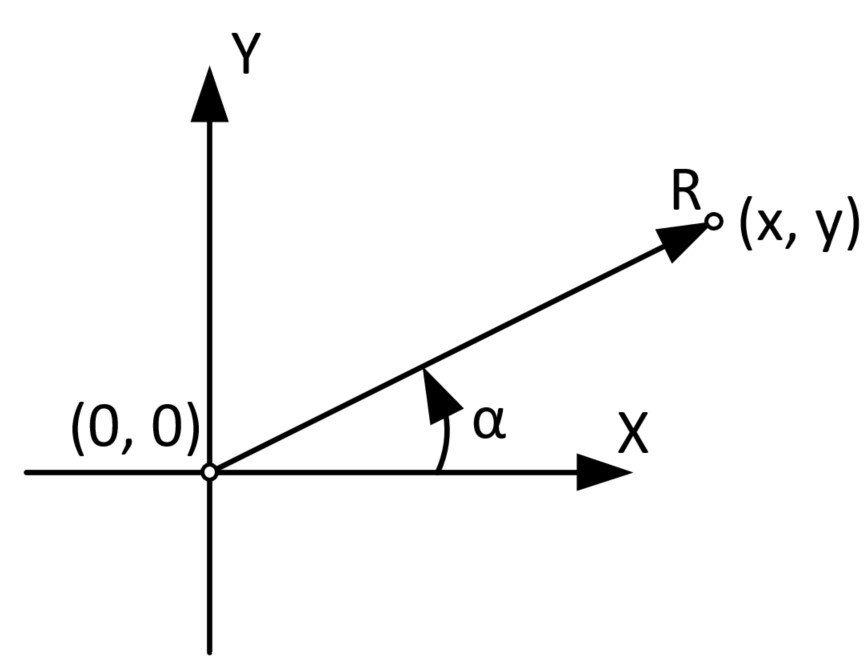
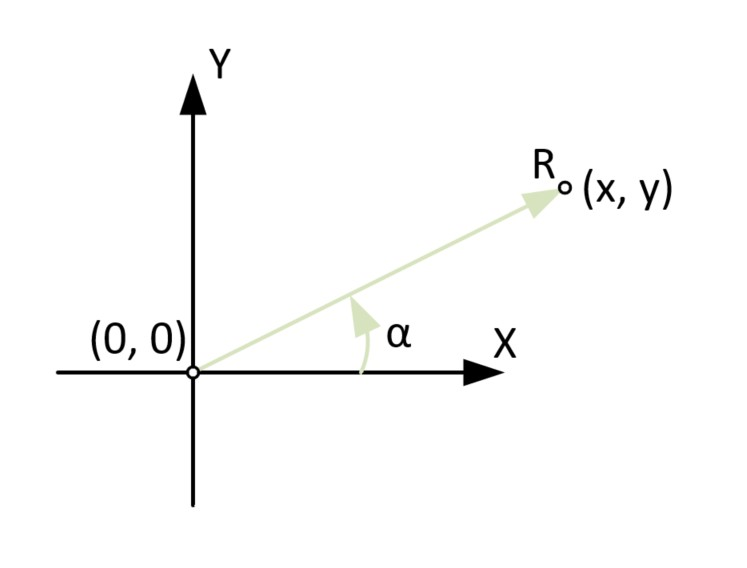
Added more documentation

Changed region(s): [[0.0308, 0.0299, 0.7697, 0.9877], [0.6158, 0.2394, 1.0, 0.4489], [0.5234, 0.419, 0.6466, 0.5088]]

diff --git a/README.md b/README.md
@@ -1,6 +1,32 @@
 # FlexJoystick
 **FlexJoystick** is a plain JavaScript ES6 class that is used to add interactable joysticks to the websites.
 
+<details "><summary><b>What FlexJoystick is capable of</b></summary>
+<div style="background:#F8F8F8;margin-top:5px;margin-left:1em;">
+
+* 3 types of joysticks:
+  1. Classic round Joysticks;
+  2. Wide joysticks;
+  3. Long joysticks;
+* the type of joystick is determined automatically based on the parent container dimensions;
+* multiple joysticks of different types can be used on the same page without interference;
+* the type of the joystick is automatically determined by the size of the holding container;
+* both touch and mouse events are supported;
+* event listeners are specified by user which allows for a flexible control;
+* joysticks size can be changed without page reload;
+* joysticks design can be updated using JavaScript;
+* by default stick returns to zero when not touched, but there is a flag to keep position;
+* 4 different joystick coordinates are available to read at any given time:
+  * X coordinate of the center of the stick;
+  * Y coordinate of the center of the stick;
+  * radius of trigger event position (mouse click or touch) from the center of the joystick;
+  * radius angle;
+* current stick direction can be read in a couple of different direction modes;
+* programmable activation threshold prevents false direction signals on touch events; 
+* there is a "return to center" animation for a stick that can be enabled by 3 lines of code.
+</div>
+</details><p></p>
+
 The class supports 3 types of joysticks:
 1. Classic round Joysticks;
 2. Wide joysticks;
@@ -27,7 +53,7 @@ This will draw the joystick on the screen. **Joystick will inherit dimensions of
 
 
 <details "><summary><b>How joystick type is determined</b></summary>
-<div style="background:#F8F8F8;margin-top:5px;">
+<div style="background:#F8F8F8;margin-top:5px;margin-left:1em;">
 
 If div's **height is bigger than width more than 1.4** times you will have a **"long"** joystick, if **opposite is true** you will have a **"wide"** one. **In all other cases** you will have a **"round"** joystick. **"Round"** Joystick will have the diameter equal to the smallest of parent dimensions and will be centered vertically and horizontally in the parent object.
 </div>
@@ -38,8 +64,9 @@ If div's **height is bigger than width more than 1.4** times you will have a **"
 At this point joystick is a static object. To make it work as intended you will need to add event handlers.
 
 <details "><summary><b>How joystick event handlers work</b></summary>
-<div style="background:#F8F8F8;margin-top:5px;">
-Joystick Class provides 6 event handle methods:
+<div style="background:#F8F8F8;margin-top:5px;margin-left:1em;">
+
+**Joystick Class** provides 6 event handle methods:
 
 - handleMouseDown(event);
 - handleMouseMove(event);
@@ -48,9 +75,9 @@ Joystick Class provides 6 event handle methods:
 - handleTouchMove(event);
 - handleTouchEnd(event, returnToCenter).
 
-If joystick should handle mouse clicks you should enable first 3 handlers, if you need to work with touches - last 3. You can enable all 6 events at the same time if needed.
+If joystick need to handle mouse clicks you should enable first 3 handlers, if you need to work with touches - last 3. You can enable all 6 events at the same time if needed.
 
- To enable handler you should call **addEventListener** function for a particular event type and call corresponding method inside.
+To enable handler you should call **addEventListener** function for a particular event type and call corresponding method inside. After that joystick should start working as intended.
 
 </div>
 </details><p></p>
@@ -71,46 +98,85 @@ document.addEventListener("mouseup", function(event){
 },false);
 ```
 
-It is important to note that "mousedown" handler is registered only for tha parent object - when we click on the joystick. To other handlers are registered for the whole document, so that we can control the stick even when we are out of boundaries of the parent object.
+It is **important to note that "mousedown" handler is registered only for tha parent object** - when we click on the joystick. To other handlers are registered for the whole document, so that we can control the stick even when we are out of boundaries of the parent object. If needed handlers can be registered for a different objects.
 
-At this point you have a fully functional basic joystick that works with mouse. But Joystick  still does not give you any type of data to work with.
+At this point you have a fully functional basic joystick that works with mouse. But it still doesn't give you any type of data to work with.
 
 ### Read the coordinates from the Joystick
 
+Joystick coordinate system starts from the center of the parent object and has 4 different coordinates:
+1. **X coordinate** of the center of the stick **in pixels**;
+2. **Y coordinate** of the center of the stick **in pixels**;
+3. **radius to the event source position** (mouse click or touch) from the center of coordinate system. It has **normalized value** - equal to 0 when stick is in the center, 1.0 when stick touches the border and higher than 1 when event source is outside of the parent object;
+4. **radius angle** from **0 to 360 degrees**.
 
-
-
-* multiple joysticks of different types can be used on the same page without interference;
-* the type of the joystick is automatically determined by the size of the holding container;
-* both touch and mouse events are supported;
-* event listeners are specified by user which allows for a flexible control;
-* joysticks size can be changed without page reload;
-* joysticks design can be updated using JavaScript;
-* by default stick returns to zero when not touched, but there is a flag to keep position;
-* 5 different joystick coordinates are available to read at any given time:
-  * local X coordinate;
-  * local Y coordinate;
-  * radius of trigger event (mouse click or touch) from the center of the joystick;
-  * angle of the 
-* there is a return to center animation for a stick that can be enabled by 3 lines of code.
+Visual representation of the coordinates:
 
 <p align="center">
 <img src="https://github.com/Trimple/FlexJoystick/blob/main/images/coordinateSystem.jpg" alt="coordinate system" width="60%">
 </p>
 
+**FlexJoystick class** provides methods to get all 4 coordinates:
+```js
+let currentX = joystick.getStickX();
+let currentY = joystick.getStickY();
+let currentRadius = joystick.getStickRadius();
+let currentAngle = joystick.getStickAngle();
+```
+There is also a **getDirection(directionConfiguration)** method that returns current joystick direction as a string.
+
+<details "><summary><b>Possible getDirection return values</b></summary>
+<div style="background:#F8F8F8;margin-top:5px;margin-left:1em;">
+
+- **С** - center (radius below the activation threshold);
+- **U** - up;
+- **UR** - up and right;
+- **R** - right;
+- **DR** - down and right;
+- **D** - down;
+- **DL** - down and left;
+- **L** - left;
+- **UL** - up and left;
+
+</div>
+</details><p></p>
+
+FlexJoystick has a **direction activation threshold** - radius of the event below which joystick is believed to be in the center. This is useful for virtual joysticks because pointer can't be placed directly into the center of the object which sometimes triggers wrong direction read.
+
+Default value of the activation threshold is 0.4. It can be updated in range of 0 to 1 with corresponding method:
+
+```js
+joystick.setActivationThreshold(newValue);
+```
+
+When called on the **"long"** object getDirection method will return either **"U"**, **"D"** or **"C"** independent on the parameter value.
+
+When called on the **"wide"** object getDirection method will return either **"L"**, **"R"** or **"C"** independent on the parameter value.
+
+There is a couple of options for the **directionConfiguration** parameter when method is called for the **"round"** joystick:
 
 
+<p align="center">
+<img src="https://github.com/Trimple/FlexJoystick/blob/main/images/directionConfiguration_8_4.jpg" alt="directionConfiguration_8_4" width="60%">
+</p>
+
+<p align="center">
+<img src="https://github.com/Trimple/FlexJoystick/blob/main/images/directionConfiguration_2_2.jpg" alt="directionConfiguration_2_2" width="60%">
+</p>
+
+The default mode for round joystick is 8 directions.
+
+### Disable content selection while holding the Joystick 
 
 
-### How to add joystick to the page
+### Enable touch interactions
 
-### How to enable the basic joystick controls
 
-### How to change joystick design
+### Enable "return to center" animation
 
-### How to animate return to zero
 
-###
+### Change Joystick design
+
 
 ## How it works
 
